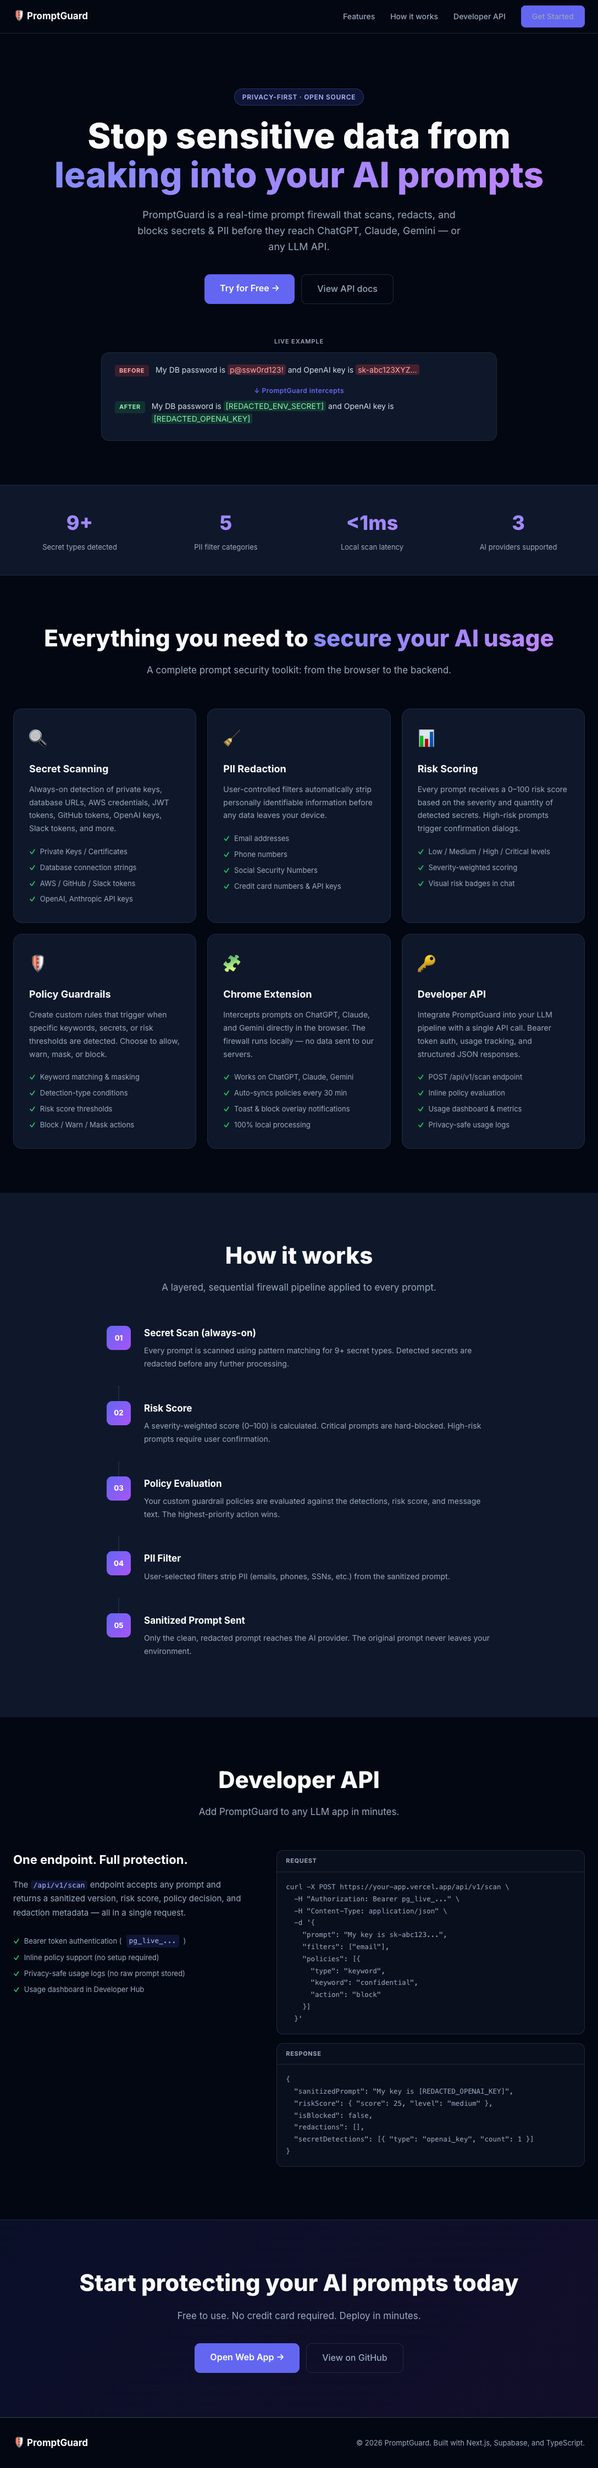
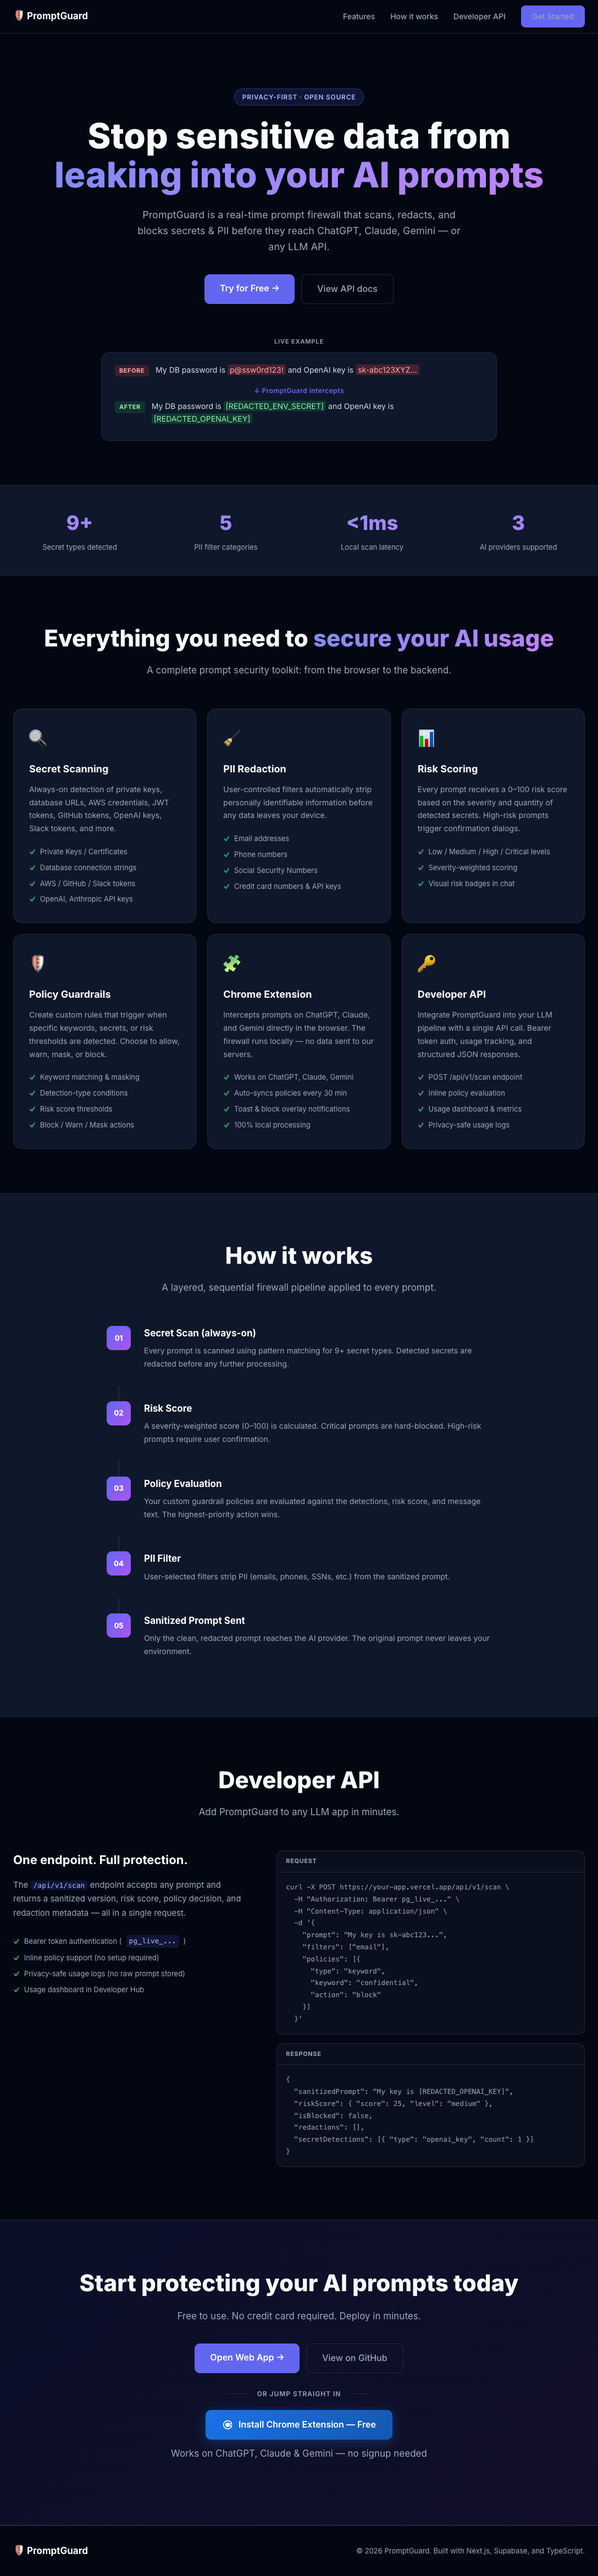
polish

diff --git a/extension/dist/background.js b/extension/dist/background.js
@@ -1,1 +1,1 @@
-(()=>{"use strict";const e={enabled:!0,filters:["email","phone","ssn","credit_card","api_key"],policies:[]},t="sync-policies";async function a(){try{const e=await fetch("https://promptguard-p4.vercel.app/api/policies",{credentials:"include"});if(!e.ok)throw new Error(`HTTP ${e.status}`);const t=await e.json();Array.isArray(t.policies)&&await chrome.storage.local.set({policies:t.policies,lastSyncedAt:(new Date).toISOString()})}catch(e){throw console.error("[PromptGuard] Policy sync failed:",e),e}}chrome.runtime.onInstalled.addListener(async({reason:a})=>{if("install"===a){const t=await chrome.storage.local.get(Object.keys(e)),a={};for(const[r,o]of Object.entries(e))r in t||(a[r]=o);Object.keys(a).length>0&&await chrome.storage.local.set(a)}chrome.alarms.create(t,{periodInMinutes:30})}),chrome.alarms.onAlarm.addListener(e=>{e.name===t&&a()}),chrome.runtime.onMessage.addListener((e,t,r)=>{if("SYNC_NOW"===e.type)return a().then(()=>r({ok:!0})).catch(()=>r({ok:!1})),!0})})();
+(()=>{"use strict";const e={enabled:!0,filters:["email","phone","ssn","credit_card","api_key"],policies:[]},t="https://promptguard-p4.vercel.app",o="sync-policies";async function a(){try{const e=await fetch(`${t}/api/policies`,{credentials:"include"});if(e.ok){const t=await e.json();return void(Array.isArray(t.policies)&&await chrome.storage.local.set({policies:t.policies,lastSyncedAt:(new Date).toISOString()}))}if(401===e.status){const e=await fetch(`${t}/api/policies/sample`);if(e.ok){const t=await e.json();if(Array.isArray(t.policies))return await chrome.storage.local.set({policies:t.policies,lastSyncedAt:(new Date).toISOString()}),void console.info("[PromptGuard] Loaded sample policies (not logged in)")}}throw new Error(`HTTP ${e.status}`)}catch(e){throw console.error("[PromptGuard] Policy sync failed:",e),e}}chrome.runtime.onInstalled.addListener(async({reason:t})=>{if("install"===t){const t=await chrome.storage.local.get(Object.keys(e)),o={};for(const[a,i]of Object.entries(e))a in t||(o[a]=i);Object.keys(o).length>0&&await chrome.storage.local.set(o)}chrome.alarms.create(o,{periodInMinutes:30})}),chrome.alarms.onAlarm.addListener(e=>{e.name===o&&a()}),chrome.runtime.onMessage.addListener((e,t,o)=>{if("SYNC_NOW"===e.type)return a().then(()=>o({ok:!0})).catch(()=>o({ok:!1})),!0})})();

diff --git a/app/api/policies/sample/route.ts b/app/api/policies/sample/route.ts
@@ -1,0 +1,63 @@
+import { NextResponse } from 'next/server'
+
+const ALLOWED_EXTENSION_ORIGIN_PREFIX = 'chrome-extension://'
+
+function corsHeaders(origin: string | null): Record<string, string> {
+  const allowed =
+    origin &&
+    (origin.startsWith(ALLOWED_EXTENSION_ORIGIN_PREFIX) ||
+      origin === 'https://promptguard-p4.vercel.app' ||
+      origin === 'http://localhost:3000')
+  return allowed
+    ? {
+        'Access-Control-Allow-Origin': origin,
+        'Access-Control-Allow-Methods': 'GET, OPTIONS',
+        'Access-Control-Allow-Headers': 'Content-Type',
+      }
+    : {}
+}
+
+export async function OPTIONS(request: Request) {
+  const origin = request.headers.get('origin')
+  return new NextResponse(null, { status: 204, headers: corsHeaders(origin) })
+}
+
+export async function GET(request: Request) {
+  const origin = request.headers.get('origin')
+  const headers = corsHeaders(origin)
+
+  const samplePolicies = [
+    {
+      id: 'sample-1',
+      userId: 'sample',
+      name: 'Block private keys',
+      enabled: true,
+      condition: { type: 'detection_type', detectionType: 'private_key', countGt: 0 },
+      action: 'block',
+      createdAt: new Date().toISOString(),
+    },
+    {
+      id: 'sample-2',
+      userId: 'sample',
+      name: 'Warn on high risk',
+      enabled: true,
+      condition: { type: 'risk_score', riskScoreGt: 50 },
+      action: 'warn',
+      createdAt: new Date().toISOString(),
+    },
+    {
+      id: 'sample-3',
+      userId: 'sample',
+      name: 'Mask "confidential"',
+      enabled: true,
+      condition: { type: 'keyword', keyword: 'confidential' },
+      action: 'mask',
+      createdAt: new Date().toISOString(),
+    },
+  ]
+
+  return NextResponse.json(
+    { policies: samplePolicies, source: 'sample' },
+    { headers },
+  )
+}

diff --git a/landing_page/styles.css b/landing_page/styles.css
@@ -164,10 +164,56 @@ body {
 
 /* ── CTA ── */
 .cta-section { background: linear-gradient(135deg, rgba(99,102,241,0.08), rgba(168,85,247,0.08)); border-top: 1px solid var(--border); border-bottom: 1px solid var(--border); }
-.cta-inner { text-align: center; }
+.cta-inner {
+  text-align: center;
+  display: flex;
+  flex-direction: column;
+  align-items: center;
+}
 .cta-inner h2 { font-size: clamp(28px,4vw,42px); font-weight: 800; margin-bottom: 14px; }
-.cta-inner p { color: var(--muted); font-size: 17px; margin-bottom: 36px; }
+.cta-inner > p { color: var(--muted); font-size: 17px; margin-bottom: 36px; }
 .cta-actions { display: flex; gap: 12px; justify-content: center; flex-wrap: wrap; }
+
+/* ── EXTENSION CTA ── */
+.cta-divider {
+  margin: 28px auto 20px;
+  font-size: 12px;
+  font-weight: 600;
+  text-transform: uppercase;
+  letter-spacing: .08em;
+  color: var(--muted);
+  position: relative;
+  display: inline-block;
+  padding: 0 16px;
+}
+.cta-divider::before, .cta-divider::after {
+  content: '';
+  position: absolute;
+  top: 50%;
+  width: 40px;
+  height: 1px;
+  background: var(--border);
+}
+.cta-divider::before { right: 100%; }
+.cta-divider::after { left: 100%; }
+.btn-extension {
+  display: inline-flex; align-items: center; gap: 10px;
+  background: linear-gradient(135deg, #1a73e8, #1557b0);
+  color: #fff;
+  padding: 14px 30px;
+  border-radius: 10px;
+  text-decoration: none;
+  font-size: 16px;
+  font-weight: 600;
+  transition: opacity .15s, transform .15s;
+  box-shadow: 0 4px 20px rgba(26,115,232,0.3);
+}
+.btn-extension:hover { opacity: .9; transform: translateY(-1px); }
+.cta-sub {
+  margin-top: 12px;
+  font-size: 13px;
+  color: var(--muted);
+}
 
 /* ── FOOTER ── */
 .footer { padding: 32px 0; border-top: 1px solid var(--border); }

diff --git a/extension/src/background/service_worker.ts b/extension/src/background/service_worker.ts
@@ -37,14 +37,36 @@ export async function syncPolicies(): Promise<void> {
     const res = await fetch(`${WEBAPP_URL}/api/policies`, {
       credentials: 'include',
     })
-    if (!res.ok) throw new Error(`HTTP ${res.status}`)
-    const data = await res.json()
-    if (Array.isArray(data.policies)) {
-      await chrome.storage.local.set({
-        policies: data.policies,
-        lastSyncedAt: new Date().toISOString(),
-      })
+
+    // Authenticated sync succeeded
+    if (res.ok) {
+      const data = await res.json()
+      if (Array.isArray(data.policies)) {
+        await chrome.storage.local.set({
+          policies: data.policies,
+          lastSyncedAt: new Date().toISOString(),
+        })
+      }
+      return
     }
+
+    // Not logged in — fall back to public sample policies
+    if (res.status === 401) {
+      const sampleRes = await fetch(`${WEBAPP_URL}/api/policies/sample`)
+      if (sampleRes.ok) {
+        const sampleData = await sampleRes.json()
+        if (Array.isArray(sampleData.policies)) {
+          await chrome.storage.local.set({
+            policies: sampleData.policies,
+            lastSyncedAt: new Date().toISOString(),
+          })
+          console.info('[PromptGuard] Loaded sample policies (not logged in)')
+          return
+        }
+      }
+    }
+
+    throw new Error(`HTTP ${res.status}`)
   } catch (err) {
     console.error('[PromptGuard] Policy sync failed:', err)
     throw err

diff --git a/landing_page/index.html b/landing_page/index.html
@@ -258,6 +258,15 @@
         <a href="/chat" class="btn-primary btn-lg">Open Web App →</a>
         <a href="https://github.com" class="btn-ghost btn-lg" target="_blank">View on GitHub</a>
       </div>
+      <div class="cta-divider">or jump straight in</div>
+      <a href="https://chrome.google.com/webstore" class="btn-extension" target="_blank">
+        <svg width="20" height="20" viewBox="0 0 24 24" fill="none" xmlns="http://www.w3.org/2000/svg">
+          <circle cx="12" cy="12" r="4" fill="#fff"/>
+          <path d="M12 8a4 4 0 0 1 3.464 2H21a9 9 0 1 0 0 4h-5.536A4 4 0 1 1 12 8z" fill="none" stroke="#fff" stroke-width="2"/>
+        </svg>
+        Install Chrome Extension — Free
+      </a>
+      <p class="cta-sub">Works on ChatGPT, Claude &amp; Gemini — no signup needed</p>
     </div>
   </section>
 

diff --git a/webapp/middleware.ts b/webapp/middleware.ts
@@ -1,7 +1,7 @@
 import { createServerClient } from '@supabase/ssr'
 import { NextResponse, type NextRequest } from '@/node_modules/next/server'
 
-export async function proxy(request: NextRequest) {
+export default async function middleware(request: NextRequest) {
   let supabaseResponse = NextResponse.next({ request })
 
   const supabase = createServerClient(
